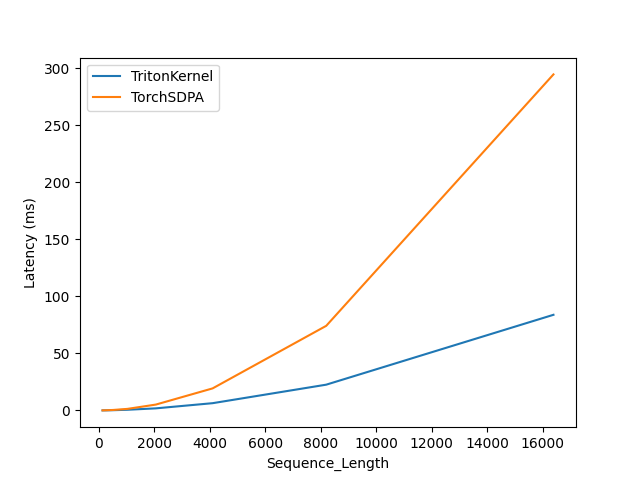
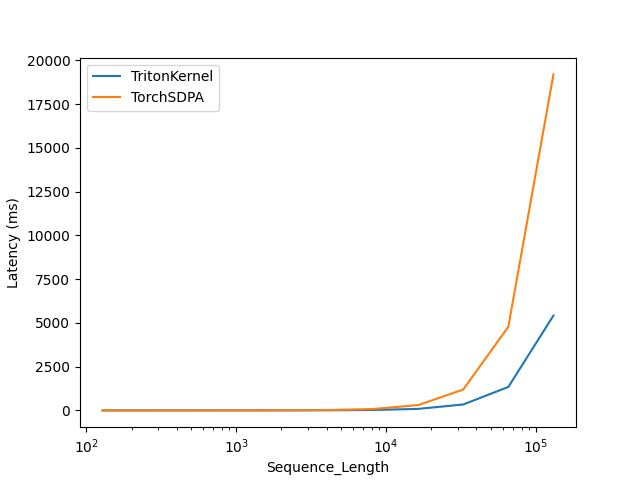
Added more standalone metrics

diff --git a/modules/flash_attention.py b/modules/flash_attention.py
@@ -3,6 +3,8 @@ import torch
 import torch.nn.functional as F
 import triton
 import triton.language as tl
+
+from benchmark_metrics import Benchmark
 #from triton.tools.tensor_descriptor import TensorDescriptor
 
 #DEVICE = triton.runtime.driver.active.get_active_torch_function()
@@ -330,6 +332,7 @@ def back_prop_attention_compute(do, q, k, v, O, LSE, sm_scale):
     shared memory:   132096 bytes
     '''
 
+    #memory (shared memory:   132096 bytes)
     #default num_stagers is 2 or 3, reduce to 1 if need memory
     #num_stages and warps are compiler opt. flags
     backpropt_attention_propagate[grid](
@@ -418,12 +421,23 @@ def _normalize_dtype(dtype):
     print("WARNING: Invalid type provided, defaulting to f32")
     return torch.float32
 
+'''
+NOTE: for values greater than 130172
+torch.OutOfMemoryError: CUDA out of memory. 
+Tried to allocate 2.00 GiB. GPU 0 has a total capacity of 21.95 GiB of which 730.12 MiB is free. 
+Including non-PyTorch memory, this process has 21.23 GiB memory in use. 
+Of the allocated memory 20.98 GiB is allocated by PyTorch, and 45.09 MiB is reserved by PyTorch but unallocated. 
+If reserved but unallocated memory is large try setting PYTORCH_CUDA_ALLOC_CONF=expandable_segments:True to 
+avoid fragmentation.  See documentation for Memory Management  
+(https://pytorch.org/docs/stable/notes/cuda.html#environment-variables)
+'''
 configs = []
 for mode in ["Forward Pass","Back Prop"]:
     configs.append(
         triton.testing.Benchmark(
             x_names=["Sequence_Length"],
-            x_vals=[128, 256, 512, 1024, 2048, 4096, 8192, 16384],
+            x_vals=[128, 256, 512, 1024, 2048, 4096, 8192, 16384, 32678, 65356, 130712],
+            x_log=True,
             line_arg="provider",
             line_vals=["triton", "sdpa"],
             line_names=["TritonKernel", "TorchSDPA"],
@@ -476,6 +490,8 @@ def benchmark_flash_attention_kernel(mode, Sequence_Length, provider, B=2, H=8, 
             fn = backward_pass_fn
 
     ms = triton.testing.do_bench(fn, warmup=25, rep=100)
+    torch_dtype = _normalize_dtype(dtype)
+    Benchmark.report_metrics(provider, mode, B, H, Sequence_Length, Dh, torch_dtype, ms)
     return ms
 
 if __name__ == "__main__":
@@ -486,3 +502,5 @@ if __name__ == "__main__":
     test_flash_attention_backward()
     #bench mark both
     benchmark_flash_attention_kernel.run(show_plots=True, print_data=True, save_path="../output/plots")
+    Benchmark.plot_benchmark_results()
+    
